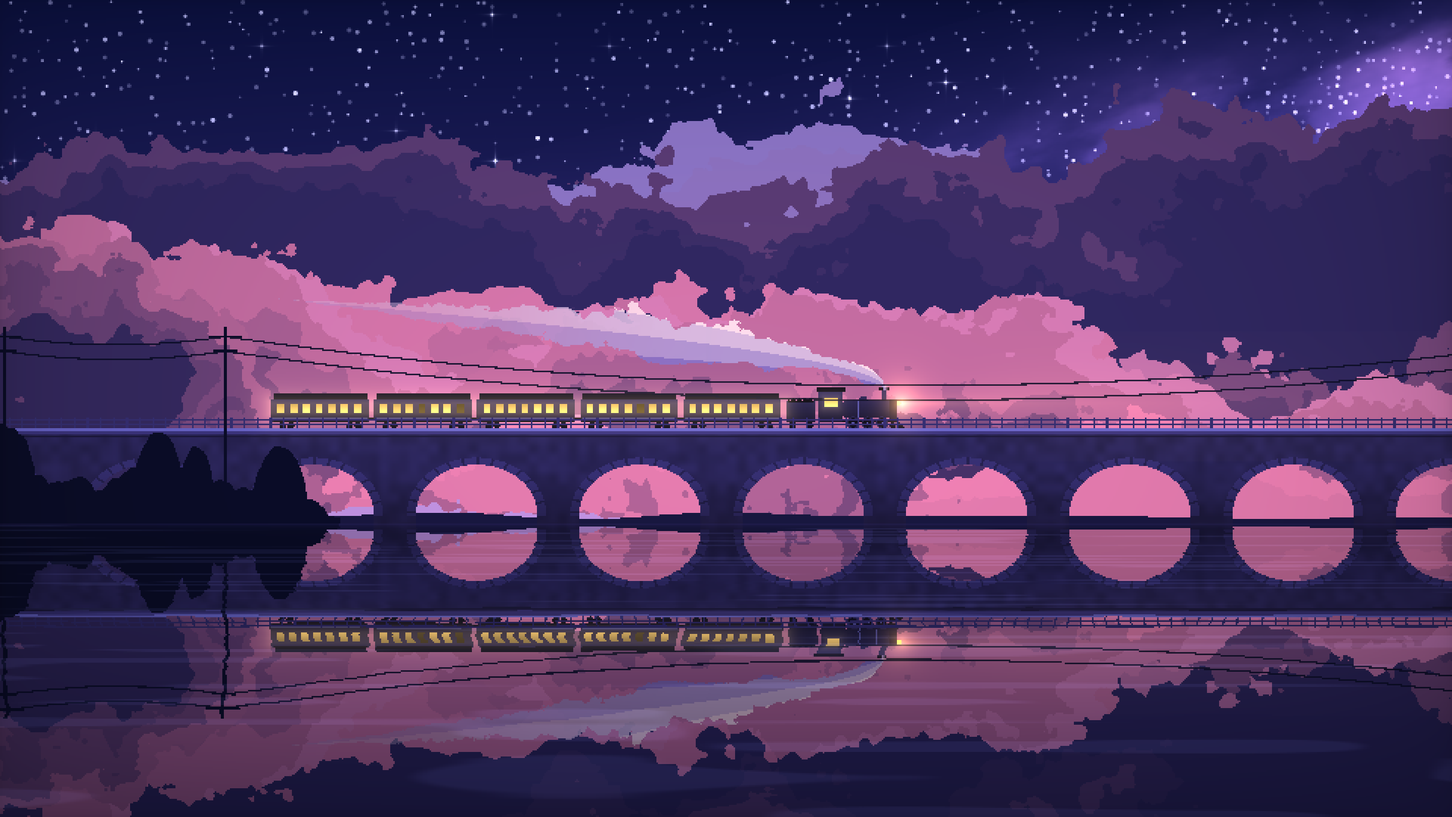
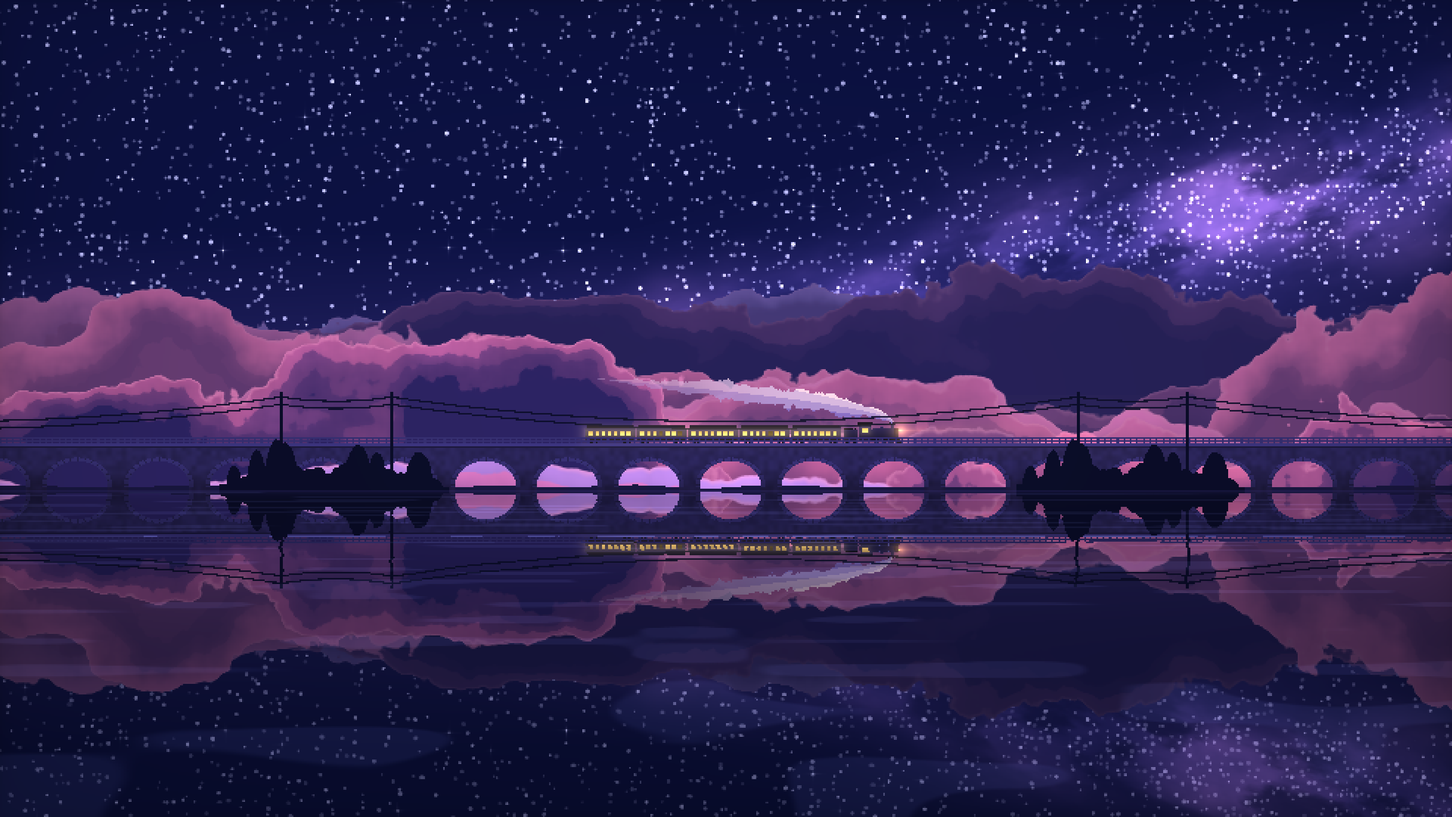
云增强：圆润鼓包、顶缘亮边与内部渐暗、远近层次、边缘抗锯齿；默认镜头改为成片构图（远近 0.5、高度 0.06），存储键升到 v2

diff --git a/index.html b/index.html
@@ -9,6 +9,7 @@
   该项目提取自 Rice-dog/code-codex「Cloud Train Background」插件（MIT）。
   云的生成算法（噪声、fbm、12 层深度高度场与色带合成）移植自原版 shader，作者 mdb，
   经 incarnation-gem/sunset-cloud-train 获得；该 shader 无再分发许可，本文件仅供本地学习使用，不公开发布、不商用。
+  云在原版算法之上另加了星河版增强（削弱高频、圆润鼓包、顶缘亮边、内部渐暗、远近层次、抗锯齿），见 docs/设计文档.md 4.2。
   其余部分（夜空、桥、列车、蒸汽、水面、近景、远岸）为重新编写；面板交互与渲染循环思路参考原版。
   沿用原作者声明：仅供学习与欣赏，不建议商业使用。
 -->
@@ -113,8 +114,8 @@
 // [键, 名称, 最小, 最大, 步长, 默认, 分组]
 const SLIDERS = [
   ['speed', '行进速度', 0, 1, .01, .12, '运动'],
-  ['zoom', '镜头远近', .5, 2, .01, 1, '镜头'],
-  ['camY', '镜头高度', -.3, .3, .01, 0, '镜头'],
+  ['zoom', '镜头远近', .5, 2, .01, .5, '镜头'],
+  ['camY', '镜头高度', -.3, .3, .01, .06, '镜头'],
   ['stars', '星星密度', 0, 1, .01, .55, '夜空'],
   ['twinkle', '闪烁强度', 0, 1, .01, .6, '夜空'],
   ['milky', '银河亮度', 0, 2, .01, 1, '夜空'],
@@ -122,6 +123,9 @@ const SLIDERS = [
   ['cloudCover', '云量', 0, 1.5, .01, .7, '云与蒸汽'],
   ['cloudStack', '云层高度', .1, 1, .01, .4, '云与蒸汽'],
   ['amplitude', '云层起伏', 0, 2, .01, .6, '云与蒸汽'],
+  ['cloudSoft', '云边圆润', 0, 1, .01, .7, '云与蒸汽'],
+  ['cloudVol', '云体积感', 0, 1, .01, .8, '云与蒸汽'],
+  ['cloudDepth', '远近层次', 0, 1, .01, .7, '云与蒸汽'],
   ['steam', '蒸汽浓度', 0, 1.5, .01, 1, '云与蒸汽'],
   ['cars', '车厢数量', 1, 10, 1, 5, '列车'],
   ['win', '车窗亮度', 0, 2, .01, 1, '列车'],
@@ -160,7 +164,9 @@ const DEFAULTS = {};
 for (const [k, , , , , d] of SLIDERS) DEFAULTS[k] = d;
 for (const [k, , d] of TOGGLES) DEFAULTS[k] = d;
 for (const [k, , d] of COLORS) DEFAULTS[k] = d;
-const STORE_KEY = 'starry-night-train:v1';
+// v2：默认镜头改为视频成片的构图并新增云参数；v1 旧存档不迁移，直接作废，让新默认生效
+const STORE_KEY = 'starry-night-train:v2';
+try { localStorage.removeItem('starry-night-train:v1'); } catch { /* 存储不可用时忽略 */ }
 
 function normalize(v) {
   const r = { ...DEFAULTS };
@@ -190,7 +196,7 @@ precision mediump float;
 uniform vec2 uRes;
 uniform float uT, uCamX, uFore, uTrainX, uSmokeOff, uFarOff, uWheel;
 uniform float uCL[12], uNMin, uNMax;
-uniform float uCars, uStars, uTwinkle, uMilky, uMeteor, uCover, uStack, uAmp, uSteam, uWin, uGlow;
+uniform float uCars, uStars, uTwinkle, uMilky, uMeteor, uCover, uStack, uAmp, uSoft, uVol, uDepth, uSteam, uWin, uGlow;
 uniform float uRipple, uRefl, uHorizon, uExposure, uSat, uVignette, uPoster, uZoom, uCamY;
 uniform int uOct;
 uniform vec3 cSkyTop, cSkyHor, cCloudLit, cCloudTop, cCloudShade, cWin, cTrain, cBridge, cLight, cFore;
@@ -297,13 +303,15 @@ float cnoise(vec2 x){
 // 原版 fbm：每阶权重 ×0.7、频率 ×2；每阶对 1024 取模（噪声周期），只防止坐标过大丢精度，不改变结果。
 // 提前退出不改变结果：噪声值必在纹理的 [uNMin, uNMax] 内，每阶后可得最终值的上下界；
 // 上界 < lo 说明这层盖不到当前像素（返回 -1），下界 > hi 说明一定落在最深色带（返回 2）。
+// 星河版改动：第 5 阶起每阶权重再乘 q = 1 − 0.4·云边圆润，削弱最高频的锯齿和碎块（q = 1 即原版）。
 float cfbm(vec2 x, float lo, float hi){
+  float q=1.-.4*uSoft;
   float T=0., w=1.;
-  for(int i=0;i<8;i++){ if(i>=uOct) break; T+=w; w*=.7; }
+  for(int i=0;i<8;i++){ if(i>=uOct) break; T+=w; w*=i>=3?.7*q:.7; }
   float a=0., b=1., t=0.;
   for(int i=0;i<8;i++){
     if(i>=uOct) break;
-    a+=b*cnoise(x); t+=b; b*=.7; x=mod(x*2.,1024.);
+    a+=b*cnoise(x); t+=b; b*=i>=3?.7*q:.7; x=mod(x*2.,1024.);
     if(i+1<uOct){
       float R=T-t;
       if((a+R*uNMax)/T<lo-1e-4) return -1.;
@@ -313,37 +321,59 @@ float cfbm(vec2 x, float lo, float hi){
   return a/t;
 }
 // 原版配色映射到星河版：按亮度在云暗部 → 云亮部之间取色，又亮又不饱和的（原版的奶油色）偏向云顶色
-// 夜色雾化：越远的层越向天空色靠拢（原版没有，用来让远层融进夜空）
-float gFog;
 vec3 cpal(vec3 o){
   float l=dot(o,vec3(.299,.587,.114));
   float s=max(o.r,max(o.g,o.b))-min(o.r,min(o.g,o.b));
   vec3 c=mix(cCloudShade*.7,cCloudLit,smoothstep(.3,.72,l));
   c=mix(c,cCloudTop,.7*smoothstep(.6,.92,l)*smoothstep(.5,.15,s));
-  c*=.78+.3*l;
-  return mix(c,mix(cSkyHor,cSkyTop,.5),gFog);
+  return c*(.78+.3*l);
 }
-// 一层云 = 一个二维 fbm 高度场；按 dh 从深到浅切出色带（与原版 layer 宏一致），命中即不透明返回。
+// 星河版在原版色带之上的光影（原版是平涂色带）：
+// d = 像素在本层轮廓下方的深度，k = 层的远近（0 最近，1 最远）。
+// 顶缘一圈粉色亮边，往内部逐渐压暗成深紫；远层压暗并融进夜空，近层提亮提饱和；外缘 1.5 像素抗锯齿。
+#define CLOUD_VOL .15
+void cmix(inout vec4 acc, vec3 c, float d, float k){
+  float aw=1.5/gPx;
+  float g=smoothstep(0.,CLOUD_VOL,d);
+  c=mix(c,mix(cCloudShade*.45,cSkyTop,.3),uVol*.6*g);
+  float rim=1.-smoothstep(aw*.5,.008+aw*1.5,d);
+  c=mix(c,mix(cCloudLit,vec3(1.,.93,.96),.35),uVol*.6*rim*(1.-.5*k));
+  float nb=uDepth*(1.-k);
+  c=mix(vec3(dot(c,vec3(.299,.587,.114))),c,1.+.35*nb)*(1.+.2*nb);
+  c=mix(c,mix(cSkyHor,cSkyTop,.5)*.85,mix(k*.33,.1+.6*k,uDepth));
+  float a=smoothstep(0.,aw,d);
+  acc.rgb+=(1.-acc.a)*a*c; acc.a+=(1.-acc.a)*a;
+}
+// billow 鼓包：|2n−1| 圆顶尖谷，叠在轮廓上形成积云的一团团圆顶（星河版新增，振幅 0.05·云边圆润，0 即原版轮廓）。
+// 鼓包值同时用于团块明暗：圆顶处略亮、团块之间的谷略暗，只作用在顶缘下 CLOUD_VOL 以内，深处提前退出时无接缝。
+// 只在 fbm 没有提前退出（靠近轮廓）时计算；鼓包恒 ≥ 0，所以「盖不到」的下界相应放宽 bA_，「必在最深处」的上界不变。
+float cbillow(vec2 x){
+  return .62*abs(2.*cnoise(x)-1.)+.38*abs(2.*cnoise(mod(x*2.13+vec2(31.,17.),1024.))-1.);
+}
+// 一层云 = 一个二维 fbm 高度场（与原版 layer 宏一致）；色带按 dh 从浅到深叠加，色带分界同样做 1.5 像素过渡。
+// 提前退出的「必在最深处」上界放宽到 max(dhMax, CLOUD_VOL) + 过渡宽度，保证光影渐变在范围内仍用真实深度。
 // 云量、云层高度只改 midlevel（整体平移 / 按层间距压缩），不改单层形状。
-#define CLD(mid,disp,i,dhMax) gFog=float(i)*.03; m_=.3+((mid)-.3)*uStack+(uCover-1.)*.3; D_=max((disp)*uAmp,1e-4); run_=cy<m_+(uNMax-.5)*D_; if(run_){ h_=(cfbm(vec2(p.x+uCL[i],cy),(cy-m_)/D_+.5,(cy+(dhMax)-m_)/D_+.5)-.5)*D_+m_; }
-#define BAND(dh,c) if(run_&&cy<h_-(dh)) return vec4(cpal(c),1.);
+#define CLD(mid,disp,i,dhMax) k_=float(i)/11.; m_=.3+((mid)-.3)*uStack+(uCover-1.)*.3; D_=max((disp)*uAmp,1e-4); d_=-1.; if(cy<m_+(uNMax-.5)*D_+bA_){ hb_=max((dhMax),CLOUD_VOL)+aw_; x_=vec2(p.x+uCL[i],cy); f_=cfbm(x_,(cy-bA_-m_)/D_+.5,(cy+hb_-m_)/D_+.5); d_=(f_-.5)*D_+m_-cy; bv_=.4; if(f_>=0.&&f_<=1.){ bv_=cbillow(mod(x_*vec2(9.,6.),1024.)); d_+=bA_*bv_; } }
+#define TOP(c) if(d_>0.){ c_=cpal(c);
+#define BAND(dh,c) c_=mix(c_,cpal(c),smoothstep((dh),(dh)+aw_,d_));
+#define END cmix(acc,c_*mix(1.,.82+.45*bv_,uVol*uSoft*(1.-smoothstep(.04,CLOUD_VOL,d_))),d_,k_); if(acc.a>.995) return vec4(acc.rgb/acc.a,1.); }
 vec4 clouds(vec2 p){
   // 云坐标：地平线对应原版 y=0.2，原版 c12（midlevel 0.3）落在地平线与桥面之间，和原版相对桥的位置一致
   float cy=p.y-uHorizon+.2;
-  float m_, D_, h_=0.; bool run_;
-  CLD(.3,.9,0,.14)   BAND(.14,vec3(.48,.19,.20)) BAND(.1,vec3(.68,.28,.19)) BAND(.07,vec3(.88,.38,.24)) BAND(0.,vec3(.95,.45,.30))
-  CLD(.35,1.,1,.04)  BAND(.04,vec3(.98,.76,.64)) BAND(0.,vec3(.95,.80,.77))
-  CLD(.35,3.5,2,.12) BAND(.12,vec3(.43,.32,.31)) BAND(.08,vec3(.55,.42,.41)) BAND(.04,vec3(.66,.42,.40)) BAND(0.,vec3(.77,.48,.46))
-  CLD(.45,2.,3,.04)  BAND(.04,vec3(.98,.57,.36)) BAND(0.,vec3(1.,.62,.44))
-  CLD(.5,2.3,4,.12)  BAND(.12,vec3(.41,.27,.27)) BAND(.08,vec3(.53,.35,.32)) BAND(.04,vec3(.80,.24,.17)) BAND(0.,vec3(.99,.29,.20))
-  CLD(.5,2.5,5,.1)   BAND(.1,vec3(.88,.38,.24))  BAND(.05,vec3(.98,.42,.28)) BAND(0.,vec3(1.,.48,.35))
-  CLD(.6,2.,6,.1)    BAND(.1,vec3(.95,.66,.48))  BAND(0.,vec3(1.,.76,.60))
-  CLD(.75,3.5,7,.2)  BAND(.2,vec3(1.,.55,.33))   BAND(.15,vec3(.98,.50,.24)) BAND(.1,vec3(.90,.55,.40)) BAND(0.,vec3(1.,.62,.44))
-  CLD(.7,2.7,8,.04)  BAND(.04,vec3(.73,.36,.30)) BAND(0.,vec3(.80,.40,.34))
-  CLD(.8,2.7,9,.1)   BAND(.1,vec3(.93,.58,.35))  BAND(0.,vec3(1.,.76,.60))
-  CLD(.9,3.,10,.1)   BAND(.1,vec3(.56,.25,.22))  BAND(.05,vec3(.60,.30,.27)) BAND(0.,vec3(.74,.35,.30))
-  CLD(1.,5.,11,.1)   BAND(.1,vec3(.92,.85,.82))  BAND(0.,vec3(1.,.94,.91))
-  return vec4(0.);
+  float m_, D_, d_, k_, hb_, f_, bv_, aw_=1.5/gPx, bA_=.07*uSoft; vec2 x_; vec3 c_; vec4 acc=vec4(0.);
+  CLD(.3,.9,0,.14)   TOP(vec3(.95,.45,.30)) BAND(.07,vec3(.88,.38,.24)) BAND(.1,vec3(.68,.28,.19)) BAND(.14,vec3(.48,.19,.20)) END
+  CLD(.35,1.,1,.04)  TOP(vec3(.95,.80,.77)) BAND(.04,vec3(.98,.76,.64)) END
+  CLD(.35,3.5,2,.12) TOP(vec3(.77,.48,.46)) BAND(.04,vec3(.66,.42,.40)) BAND(.08,vec3(.55,.42,.41)) BAND(.12,vec3(.43,.32,.31)) END
+  CLD(.45,2.,3,.04)  TOP(vec3(1.,.62,.44))  BAND(.04,vec3(.98,.57,.36)) END
+  CLD(.5,2.3,4,.12)  TOP(vec3(.99,.29,.20)) BAND(.04,vec3(.80,.24,.17)) BAND(.08,vec3(.53,.35,.32)) BAND(.12,vec3(.41,.27,.27)) END
+  CLD(.5,2.5,5,.1)   TOP(vec3(1.,.48,.35))  BAND(.05,vec3(.98,.42,.28)) BAND(.1,vec3(.88,.38,.24)) END
+  CLD(.6,2.,6,.1)    TOP(vec3(1.,.76,.60))  BAND(.1,vec3(.95,.66,.48)) END
+  CLD(.75,3.5,7,.2)  TOP(vec3(1.,.62,.44))  BAND(.1,vec3(.90,.55,.40)) BAND(.15,vec3(.98,.50,.24)) BAND(.2,vec3(1.,.55,.33)) END
+  CLD(.7,2.7,8,.04)  TOP(vec3(.80,.40,.34)) BAND(.04,vec3(.73,.36,.30)) END
+  CLD(.8,2.7,9,.1)   TOP(vec3(1.,.76,.60))  BAND(.1,vec3(.93,.58,.35)) END
+  CLD(.9,3.,10,.1)   TOP(vec3(.74,.35,.30)) BAND(.05,vec3(.60,.30,.27)) BAND(.1,vec3(.56,.25,.22)) END
+  CLD(1.,5.,11,.1)   TOP(vec3(1.,.94,.91))  BAND(.1,vec3(.92,.85,.82)) END
+  return acc.a>0.?vec4(acc.rgb/acc.a,acc.a):vec4(0.);
 }
 
 // ---------- 远岸与灯光 ----------
@@ -737,7 +767,7 @@ function createGL() {
     gl.activeTexture(gl.TEXTURE0);
     uniformNames = ['uRes', 'uT', 'uCamX', 'uFore', 'uTrainX', 'uSmokeOff', 'uFarOff', 'uWheel', 'uCL', 'uCars', 'uStars',
       'uTwinkle', 'uMilky', 'uMeteor', 'uCover', 'uStack', 'uAmp', 'uSteam', 'uWin', 'uGlow', 'uRipple', 'uRefl', 'uHorizon',
-      'uExposure', 'uSat', 'uVignette', 'uPoster', 'uZoom', 'uCamY', 'uOct', 'uNoise', 'uCloudTex', 'uNMin', 'uNMax',
+      'uExposure', 'uSat', 'uVignette', 'uPoster', 'uZoom', 'uCamY', 'uOct', 'uNoise', 'uCloudTex', 'uNMin', 'uNMax', 'uSoft', 'uVol', 'uDepth',
       ...COLORS.map(c => c[3])];
     loc = Object.fromEntries(uniformNames.map(n => [n, gl.getUniformLocation(prog, n)]));
     gl.uniform1i(loc.uNoise, 0); gl.uniform1i(loc.uCloudTex, 1);
@@ -755,6 +785,7 @@ function createGL() {
       gl.uniform1fv(loc.uCL, M.cl);
       f1('uCars', S.cars); f1('uStars', S.stars); f1('uTwinkle', S.twinkle); f1('uMilky', S.milky);
       f1('uMeteor', S.meteor); f1('uCover', S.cloudCover); f1('uStack', S.cloudStack); f1('uAmp', S.amplitude); f1('uSteam', S.steam);
+      f1('uSoft', S.cloudSoft); f1('uVol', S.cloudVol); f1('uDepth', S.cloudDepth);
       f1('uWin', S.win); f1('uGlow', S.glow); f1('uRipple', S.ripple); f1('uRefl', S.refl);
       f1('uHorizon', S.horizon); f1('uExposure', S.exposure); f1('uSat', S.saturation);
       f1('uVignette', S.vignette); f1('uPoster', S.poster); f1('uZoom', S.zoom); f1('uCamY', S.camY);

diff --git a/docs/设计文档.md b/docs/设计文档.md
@@ -16,9 +16,9 @@ starry-night-train/
 └── docs/
     ├── 需求分析.md
     ├── 设计文档.md
-    ├── screenshot.png               验证截图（默认镜头）
-    ├── screenshot-zoom.png          验证截图（镜头远近 0.5）
-    └── cloud-compare.png            云形状对比（上原版、下星河版）
+    ├── screenshot.png               验证截图（默认镜头：远近 0.5、高度 0.06）
+    ├── screenshot-zoom.png          验证截图（镜头远近 0.5，云增强之前）
+    └── cloud-compare.png            云增强对比（上为增强前的原版移植云，下为增强后，同一构图）
 ```
 
 ## 2. 总体架构
@@ -59,7 +59,7 @@ starry-night-train/
 | 4 | 列车 | `uTrainX`（屏幕位置） |
 | 5 | 石拱桥 | `uCamX` |
 | 6 | 远岸与灯光 | `uFarOff`（视差 0.08） |
-| 7 | 12 层云（由近到远，命中即不透明返回） | `uCL[i]`（镜头速度 × 5 / dist，外加微风） |
+| 7 | 12 层云（由近到远，带抗锯齿边缘的前到后合成，累计不透明即返回） | `uCL[i]`（镜头速度 × 5 / dist，外加微风） |
 | 8 | 天空：渐变、银河、星星、流星 | 静止 |
 
 车窗光晕、车头灯和光束最后叠加。
@@ -75,17 +75,21 @@ starry-night-train/
 
 ### 4.2 云
 
-云忠实移植自原版 `background()` 里的 c12～c1 共 12 层（来源与许可见第 2 节）。对比截图（上为原版，下为星河版，同为 t = 0、镜头远近 1、云层起伏 0.6、噪声细节 8；星河版的云量和云层高度设为 1，镜头高度设为 0.16，使云坐标与原版 uv 完全重合）：
+云的底层移植自原版 `background()` 里的 c12～c1 共 12 层（来源与许可见第 2 节），噪声、fbm、分层高度场和色带都与原版一致。在此之上，星河版又做了一轮增强，让云更接近「治愈星空列车」海报里蓬松、圆润、分层清楚的积云（见本节末「星河版增强」）。
 
-![云形状对比](cloud-compare.png)
+移植时曾逐像素对比过：同为 t = 0、镜头远近 1、云层起伏 0.6、噪声细节 8，云量和云层高度设为 1、镜头高度 0.16 时，星河版与原版的云形状完全重合。
+
+增强前后的对比（同为默认构图：镜头远近 0.5、高度 0.06，t = 0，暂停；上为增强前，下为增强后）：
+
+![云增强对比](cloud-compare.png)
 
 **噪声**（与原版一致）：
 - 纹理：1024×1024，xorshift（种子 93451）逐字节生成，线性过滤、重复寻址。
 - `noise(x)`：五次插值 `u = f³(f(6f − 15) + 10)`，取 4 个整数格点 `(p + {0,1}²)/1024` 的纹理值做双线性组合。格点坐标正好落在 texel 边界上，线性过滤得到的是相邻 2×2 texel 的平均值。
 - 实现上做了等价变换：初始化时预先算出每个格点的 2×2 平均值存进纹理（四个字节之和为 0～1020，亮度通道存和 >> 2，alpha 通道存低 2 位 × 64，着色器里用 `亮度 + alpha / 256` 还原出精确平均值），再用一次硬件双线性采样 `(floor(x) + u + 0.5)/1024` 代替原版的 4 次取值加手工插值，结果相同。
-- `fbm(x)`：`噪声细节` 阶，每阶权重 × 0.7、频率 × 2，除以权重和归一化。每阶坐标对 1024 取模（噪声周期），只为防止坐标过大丢精度，不改变结果。
+- `fbm(x)`：`噪声细节` 阶，每阶权重 × 0.7、频率 × 2，除以权重和归一化。每阶坐标对 1024 取模（噪声周期），只为防止坐标过大丢精度，不改变结果。第 5 阶起的权重另有星河版衰减（见「星河版增强」）。
 
-**分层高度场**（与原版一致）：每层 `h = (fbm(x + 偏移_i, y) − 0.5) × disp_i × 云层起伏 + midlevel_i`。fbm 的输入包含 y，所以轮廓是二维噪声的等值线，会出现原版那种碎裂的边缘、悬空的小云块和孔洞。每层再按 `dh` 从深到浅切出 2～4 道色带：`y < h − dh` 就取该色带颜色并不透明返回，与原版 `layer(dh, v)` 宏相同。各层 midlevel、disp、dist、初始偏移和色带 dh 全部照搬原版：
+**分层高度场**（与原版一致）：每层 `h = (fbm(x + 偏移_i, y) − 0.5) × disp_i × 云层起伏 + midlevel_i`。fbm 的输入包含 y，所以轮廓是二维噪声的等值线，原版因此有碎裂的边缘、悬空的小云块和孔洞。每层再按 `dh` 切出 2～4 道色带：`y < h − dh` 就取该色带颜色，与原版 `layer(dh, v)` 宏相同。原版的色带是硬切、命中即不透明返回；星河版在色带分界和外缘各做 1.5 像素过渡（见「星河版增强」）。各层 midlevel、disp、dist、初始偏移和色带 dh 全部照搬原版：
 
 | 层（原版编号） | midlevel | disp | dist | 初始偏移 | 色带 dh |
 | --- | --- | --- | --- | --- | --- |
@@ -106,13 +110,27 @@ starry-night-train/
 - 云坐标 `y_c = p.y − H + 0.2`，即地平线对应原版的 y = 0.2，c12 落在地平线和桥面之间，相对桥的位置和原版一致。x 直接用场景坐标，因此镜头远近、镜头高度、水面反射都自动正确。
 - 滚动：原版各层为 `t / dist`、桥为 `t / 5`，所以星河版每层偏移按「镜头位移 × 5 / dist」推进，外加一点微风，每层单独对 1024 取模（见第 5 节）。
 - 云量与云层高度只改各层 midlevel，不改单层形状：`midlevel' = 0.3 + (midlevel − 0.3) × 云层高度 + (云量 − 1) × 0.3`。两者都为 1 时与原版相同；默认 0.7 / 0.4，把云压到画面中下部，上方留出星空。
-- 合成顺序：近景、护栏、蒸汽、列车、桥、远岸之后，按 c12 → c1 由近到远判断，命中即返回，最后才是天空。
+- 合成顺序：近景、护栏、蒸汽、列车、桥、远岸之后，按 c12 → c1 由近到远前到后累加，累计不透明度超过 0.995 就返回，最后才是天空。
 
-**配色**：原版每道色带的晚霞色按亮暗关系映射到星河版的三种云颜色。亮度 `l` 从 0.3 到 0.72，在「云暗部 × 0.7」和「云亮部」之间过渡；又亮又不饱和的颜色（原版的奶油色）再最多向「云顶」混合 70%；整体乘 `0.78 + 0.3 l`。原版里深层的暗色带、云顶的亮边，以及各层之间的明暗关系都因此保留下来。另外按层序加了最多 33% 的「夜色雾化」，越远的层越向天空色靠拢，这一步原版没有，用来让远层融进夜空。
+**配色**：原版每道色带的晚霞色按亮暗关系映射到星河版的三种云颜色。亮度 `l` 从 0.3 到 0.72，在「云暗部 × 0.7」和「云亮部」之间过渡；又亮又不饱和的颜色（原版的奶油色）再最多向「云顶」混合 70%；整体乘 `0.78 + 0.3 l`。原版里深层的暗色带、云顶的亮边，以及各层之间的明暗关系都因此保留下来。映射之后再叠加星河版的光影和远近处理（见下）。
 
 **提前退出**（不改变结果）：
-- 纹理里的噪声值有确定的最小值和最大值，初始化时算出来作为 `uNMin` / `uNMax`。像素高于 `midlevel' + (uNMax − 0.5) × disp'` 时，这层一定盖不到，直接跳过。
-- fbm 每算完一阶，就用剩余权重乘噪声上下限，得到最终值的范围。如果已经能确定这层盖不到当前像素，或者一定落在最深的色带里，就提前结束。
+- 纹理里的噪声值有确定的最小值和最大值，初始化时算出来作为 `uNMin` / `uNMax`。像素高于 `midlevel' + (uNMax − 0.5) × disp' + 鼓包振幅` 时，这层一定盖不到，直接跳过。
+- fbm 每算完一阶，就用剩余权重乘噪声上下限，得到最终值的范围。如果已经能确定这层盖不到当前像素（下界放宽一个鼓包振幅），或者一定在轮廓下方 `max(最深 dh, 0.15) + 过渡宽度` 以外，就提前结束。这个深度以下光影已经不再变化，所以结果不变。
+
+**星河版增强**：原版的每道色带是平涂，8 阶、0.7 衰减的 fbm 轮廓高频很重。照搬到夜景后，远层成了大块没有明暗的薰衣草色平板，边缘一圈锯齿和孤立像素。增强只在原版高度场之上叠加，不改 12 层结构、各层参数和噪声。下表最后一列的参数为 0 时，对应改动关闭：
+
+| 改动 | 做法 | 理由 | 参数 |
+| --- | --- | --- | --- |
+| 削弱高频 | fbm 第 5 阶起，每阶权重在 × 0.7 之外再乘 `q = 1 − 0.4 × 云边圆润`；归一化用改后的权重和 | 锯齿和孤立像素主要来自 5～8 阶；前 4 阶决定大形，保持原样 | 云边圆润，默认 0.7 时 q = 0.72 |
+| 圆润鼓包 | 轮廓上加 `0.07 × 云边圆润 × billow(x × (9, 6))`，`billow = 0.62 abs(2n−1) + 0.38 abs(2n'−1)`（同一 1024 噪声，第二项频率 × 2.13 并错开） | `abs(2n−1)` 是圆顶尖谷，叠在轮廓上就是积云一团团的圆顶；只在 fbm 没有提前退出、也就是轮廓附近的像素才计算，开销小 | 云边圆润 |
+| 团块明暗 | 顶缘下 0.15 以内，颜色乘 `mix(1, 0.82 + 0.45 × billow, 云体积感 × 云边圆润)` | 圆顶处略亮、团块之间的谷略暗，每一团都有体积；超出这一深度后不再作用，所以和提前退出的深度一致，不会出现接缝 | 云体积感 × 云边圆润 |
+| 顶缘亮边 | 轮廓下 `0.008 + 1.5 像素` 以内，向「云亮部」与白色 35% 的混合色过渡，强度 `0.6 × 云体积感`，远层减半 | 海报里每团云顶都有一圈粉色受光边 | 云体积感 |
+| 内部渐暗 | 按轮廓下深度 d，`smoothstep(0, 0.15, d)` 向「云暗部 × 0.45」与天顶色 30% 的混合色过渡，最多 `0.6 × 云体积感` | 顶亮底暗。近层的亮顶压在远层的暗部上，层与层的前后关系一眼可见，大块平涂也就没有了 | 云体积感 |
+| 远近层次 | 层序 k = i / 11（0 最近）。近层饱和度 × `1 + 0.35 (1−k) 远近层次`、亮度 × `1 + 0.2 (1−k) 远近层次`；之后向夜色（天空中间色 × 0.85）混合 `mix(0.33k, 0.1 + 0.6k, 远近层次)` | 远层更暗并融进夜空，近层更亮更饱和。远近层次为 0 时退化为增强前的雾化（0.33k） | 远近层次，默认 0.7 |
+| 抗锯齿 | 外缘不透明度为 `smoothstep(0, 1.5 / gPx, d)`；色带分界用 `smoothstep(dh, dh + 1.5 / gPx, d)` 混合；12 层改为前到后累加（与 `scene()` 的 ADD 相同） | 1.5 个渲染像素的过渡。像素风下放大后仍是像素块，只是边缘不再一格一格地断开 | 始终开启 |
+
+这些改动用的是竖直方向的深度 d，不是真正的法向距离，所以接近竖直的轮廓上过渡偏窄。削弱高频之后这种陡边少了很多；要改用屏幕导数，得启用 `OES_standard_derivatives`，而且提前退出带来的分支会让导数不可靠，所以没有采用。
 
 **未移植的部分**：
 - 原版 `foreground()` 的 c14、c13 两层前景云：它们在桥下形成云海，会盖住星河版的水面和倒影。
@@ -180,7 +198,8 @@ JS 每帧按 `dt × 行进速度` 推进，所有偏移按周期取模：
 | --- | --- |
 | 单 pass、无 FBO | 省掉原版的反馈纹理读写 |
 | 单次采样值噪声 | 每个 noise 1 次纹理读取；云噪声用预平均纹理把原版的 4 次取值等价成 1 次 |
-| 云层提前退出 | 按噪声上下限推 fbm 取值范围，确定不命中或必落最深色带时提前结束，结果不变 |
+| 云层提前退出 | 按噪声上下限推 fbm 取值范围，确定不命中或必在光影不再变化的深度以下时提前结束，结果不变 |
+| 云增强的开销控制 | 鼓包只在轮廓附近（fbm 未提前退出）计算；削弱高频后剩余权重变小，上下界更紧，提前退出更早；抗锯齿只让边缘像素继续算后一层。SwiftShader 下稳态从约 21 fps 升到约 27～30 fps |
 | 前到后合成并提前返回 | 被桥、列车、近景、厚云挡住的部分不算天空和远层云 |
 | 包围盒剔除 | 云、列车、蒸汽、桥、银河先做范围判断 |
 | 渲染比例默认 0.5 + 像素风 | 默认像素数是全分辨率的 1/4，最近邻放大本身就是像素画风格 |
@@ -193,13 +212,13 @@ JS 每帧按 `dt × 行进速度` 推进，所有偏移按周期取模：
 
 ## 7. 参数表
 
-滑杆参数（默认值对应参考图）：
+滑杆参数（默认值对应参考图；镜头默认值取视频成片的最终构图，见下）：
 
 | 键 | 名称 | 范围 | 默认 |
 | --- | --- | --- | --- |
 | speed | 行进速度 | 0～1 | 0.12 |
-| zoom | 镜头远近（大于 1 拉近，小于 1 拉远） | 0.5～2 | 1 |
-| camY | 镜头高度（正值抬高镜头、看到更多天空） | −0.3～0.3 | 0 |
+| zoom | 镜头远近（大于 1 拉近，小于 1 拉远） | 0.5～2 | 0.5 |
+| camY | 镜头高度（正值抬高镜头、看到更多天空） | −0.3～0.3 | 0.06 |
 | stars | 星星密度 | 0～1 | 0.55 |
 | twinkle | 闪烁强度 | 0～1 | 0.6 |
 | milky | 银河亮度 | 0～2 | 1 |
@@ -207,6 +226,9 @@ JS 每帧按 `dt × 行进速度` 推进，所有偏移按周期取模：
 | cloudCover | 云量（整体升降各层 midlevel，1 = 原版） | 0～1.5 | 0.7 |
 | cloudStack | 云层高度（按层间距压缩各层 midlevel，1 = 原版） | 0.1～1 | 0.4 |
 | amplitude | 云层起伏（乘各层 disp，同原版 amplitude） | 0～2 | 0.6 |
+| cloudSoft | 云边圆润（削弱 fbm 高频 + 圆润鼓包，0 = 原版轮廓） | 0～1 | 0.7 |
+| cloudVol | 云体积感（顶缘亮边、内部渐暗、团块明暗） | 0～1 | 0.8 |
+| cloudDepth | 远近层次（远层压暗融入夜空，近层提亮提饱和） | 0～1 | 0.7 |
 | steam | 蒸汽浓度 | 0～1.5 | 1 |
 | cars | 车厢数量 | 1～10 | 5 |
 | win | 车窗亮度 | 0～2 | 1 |
@@ -224,6 +246,14 @@ JS 每帧按 `dt × 行进速度` 推进，所有偏移按周期取模：
 
 开关：镜头跟随（开）、像素风（开）、自动降画质（开）、暂停（关）。
 
+默认值与视频的关系：`tools/record-video.mjs` 录制时设置了 `scale 1`、`auto false`、`fps 60`、`paused false`、`follow true`，镜头在 14 秒内从 `zoom 1、camY 0` 过渡到 `zoom 0.5、camY 0.06`（第 11 节命令里的 `--camy-to 0.06`），之后一直保持。成片最终状态中，这些画面参数的去留如下：
+
+- 照搬为默认值：`zoom 0.5`、`camY 0.06`。
+- 本来就与默认值相同：`fps 60`、`paused false`、`follow true`。
+- 不照搬：`scale 1` 和 `auto false`。它们只是为了保证录制画质（固定 1920×1080、不让自动降画质改分辨率），实时播放时仍用 0.5 和自动降画质，照顾集显。
+
+`compose-video.mjs` 只做后期（泛光、暗角、颗粒、文字、淡入淡出），不涉及页面参数。
+
 颜色（10 项）：天顶 `#0d1240`、地平线 `#4a3c8c`、云亮部 `#ff8fbd`、云顶 `#8f97f0`、云暗部 `#4b3f8f`、车窗 `#ffd27a`、车身 `#1d1a3a`、桥体 `#2a2554`、远处灯光 `#ffb35c`、近景剪影 `#0b0d26`。
 
 ## 8. 面板交互
@@ -231,7 +261,8 @@ JS 每帧按 `dt × 行进速度` 推进，所有偏移按周期取模：
 - 右下角面板，点标题栏折叠/展开；按 `H` 键整体隐藏或显示。
 - 标题栏显示实时帧率和渲染分辨率。
 - 每项滑杆旁有「重置」；颜色用原生 `<input type="color">`（离线可用，比原版自绘取色器简单）。
-- 底部按钮：恢复默认、记住设置（localStorage，键 `starry-night-train:v1`）、清除记录。
+- 底部按钮：恢复默认、记住设置（localStorage，键 `starry-night-train:v2`）、清除记录。
+- 存储版本：默认镜头改为成片构图并新增三个云参数后，键从 `v1` 升到 `v2`。旧的 `v1` 存档不迁移，启动时直接删除。原因是旧存档里几乎都带着旧的 `zoom 1、camY 0`；若迁移，新默认构图对老用户永远不会生效，而这次改默认的目的正是让所有人看到新构图。旧存档里能保留的只有少量手调参数，重新调一次的代价很小。
 - 旧存储兼容：读取时只认当前参数表里的键并夹取范围。旧版的 `cloud` / `cloudH` 语义已变，改用新键名 `cloudCover` / `cloudStack` / `amplitude`，所以旧值会被忽略，这几项取新默认值；旧存储里的 `detail` 仍有效。
 - 自动降画质改动渲染比例或噪声细节时同步更新滑杆。
 
@@ -262,6 +293,11 @@ JS 每帧按 `dt × 行进速度` 推进，所有偏移按周期取模：
 | 禁用 WebGL，`file://` 打开 | 显示降级提示，仅一条预期的 warning；Canvas2D 简化版 60 fps 持续行驶 |
 | 镜头参数（RTX 3080） | 镜头远近 0.5 / 1 / 2、镜头高度 ±0.3 逐一截图，GL 无错误，倒影对齐、边缘无空白；远近 0.5 加高度 −0.3 并关闭镜头跟随时，列车在 −0.906 处重新进场（可见左边界 −0.889） |
 | 镜头参数（禁用 WebGL） | 远近 0.5 加高度 0.2、远近 2 加高度 −0.2，Canvas2D 画面铺满、60 fps |
+| 云增强（RTX 3080） | 默认构图（远近 0.5、高度 0.06）以及远近 1、2 逐一截图，GL 无错误，倒影与实体对齐。无头 Edge（ANGLE D3D11，1280×720 窗口）默认设置稳定 60 fps，比例 0.5、细节 8 不降级 |
+| 云增强（SwiftShader，默认构图） | 控制台无日志；比例 0.5 时约 9 fps（增强前约 5 fps），自动降到 0.35 约 13～17 fps，细节降到 5 阶后比例再降到 0.25，稳定在约 30 fps（20 秒内收敛） |
+| 云增强（SwiftShader，远近 1、高度 0） | 与上面相同的降级路径，稳定在约 27 fps（增强前同条件约 21 fps） |
+| 云增强（禁用 WebGL） | 显示降级提示；Canvas2D 简化版按新默认构图（远近 0.5、高度 0.06）铺满画面，60 fps |
+| 存储版本 | 新键 `starry-night-train:v2`；旧键 `v1` 启动时被删除，默认即读到远近 0.5、高度 0.06 |
 
 镜头远近 0.5 的画面：
 
@@ -306,7 +342,7 @@ node tools/compose-video.mjs --video export/raw.mp4 --audio <音乐.mp3> --out e
 
 ### 11.3 验证结果
 
-先用 12 秒样片抽帧检查标题位置、泛光、阴影和颗粒（第一版标题在画面 30% 高度处压在云顶上，改到 13% 处的星空里），再渲染全片。全片用提交 `e73125b`（移植原版云）的 `index.html` 渲染。
+先用 12 秒样片抽帧检查标题位置、泛光、阴影和颗粒（第一版标题在画面 30% 高度处压在云顶上，改到 13% 处的星空里），再渲染全片。全片用提交 `e73125b`（移植原版云）的 `index.html` 渲染，不含第 4.2 节的云增强；要换成增强后的云，重新运行本节开头的两条命令即可。录制脚本显式设置镜头时间线，与页面默认镜头无关，所以默认值改成 0.5 / 0.06 不影响录制结果。
 
 | 项 | 结果 |
 | --- | --- |

diff --git a/docs/需求分析.md b/docs/需求分析.md
@@ -39,7 +39,8 @@
 | F1 | 星空 | 天顶深蓝到地平线紫的渐变；大量小星星随机闪烁；少量带十字光芒的亮星 |
 | F2 | 银河 / 星云 | 斜向的淡紫蓝光带，带噪声纹理和暗尘带，亮度可调 |
 | F3 | 流星 | 偶发流星从右上划向左下，带渐隐拖尾，频率可调，可设为 0 关闭 |
-| F4 | 云团 | 云的形状、层次和边缘蓬松感与原版 sunset-cloud-train 一致：忠实移植原版的噪声、fbm 和 12 层深度高度场与色带合成，只把晚霞配色换成星河版的云颜色（云亮部、云顶、云暗部）；多层视差随列车前行；云量、云层高度、云层起伏可调 |
+| F4 | 云团 | 底层算法与原版 sunset-cloud-train 一致：移植原版的噪声、fbm 和 12 层深度高度场与色带合成，晚霞配色换成星河版的云颜色（云亮部、云顶、云暗部）；多层视差随列车前行；云量、云层高度、云层起伏可调 |
+| F4a | 云团增强 | 在原版算法之上向「治愈星空列车」海报靠拢，具体如下：<br>- 层次：前后层叠关系清楚；每团云顶缘有粉色亮边、底部和内部渐暗成深紫；远层更暗并融进夜色，近层更亮更饱和；不出现大块平涂的单色云。<br>- 边缘：圆润的鼓包轮廓，减少高频锯齿和孤立像素，边缘约 1～2 像素抗锯齿；像素风下保持像素块，但边缘不碎。<br>- 可调：云边圆润、云体积感、远近层次三项，设为 0 时对应改动关闭。<br>- 性能：SwiftShader 下的稳态帧率不低于增强前（约 21 fps） |
 | F5 | 远岸与灯光 | 地平线上低矮的远岸剪影，成簇的暖色灯点和光晕 |
 | F6 | 石拱桥 | 多孔半圆拱，拱圈石块、桥面檐口亮边、护栏立柱；随行驶横向滚动 |
 | F7 | 列车 | 蒸汽机车（烟囱、汽包、驾驶室、煤水车、排障器、大动轮和连杆、车头灯光束），后挂若干客车厢，暖黄车窗加光晕；车厢数可调 |
@@ -56,6 +57,7 @@
 | M3 | 所有滚动量按周期取模，长时间运行不出现浮点精度问题和接缝跳变 |
 | M4 | 支持暂停；系统开启「减少动态效果」时默认放慢 |
 | M5 | 镜头远近与镜头高度（对应原版的「视角缩放」「垂直位置」）：以屏幕中心缩放、整体上下平移；所有图层统一变换，倒影与实体对齐，缩小时画面边缘也有内容，列车跟随与穿行按可见范围计算 |
+| M6 | 默认镜头取视频成片的最终构图：镜头远近 0.5、镜头高度 0.06。只为保证录制画质的设置（渲染比例 1、关闭自动降画质）不作为默认值。存储键升级为 `v2`，让新默认值对所有用户生效 |
 
 ### 3.3 参数面板
 
@@ -66,7 +68,7 @@
 | 运动 | 行进速度、镜头跟随、暂停 |
 | 镜头 | 镜头远近、镜头高度 |
 | 夜空 | 星星密度、闪烁强度、银河亮度、流星频率 |
-| 云与蒸汽 | 云量、云层高度、云层起伏（同原版 amplitude）、蒸汽浓度 |
+| 云与蒸汽 | 云量、云层高度、云层起伏（同原版 amplitude）、云边圆润、云体积感、远近层次、蒸汽浓度 |
 | 列车 | 车厢数量、车窗亮度、光晕强度 |
 | 水面 | 地平线高度、倒影亮度、波纹强度 |
 | 后期 | 曝光、饱和度、暗角、色阶（像素化分色） |
@@ -116,7 +118,7 @@
 | --- | --- |
 | V1 | 画面用 `index.html` 本身渲染（新版云），不做实时屏幕录制；逐帧确定性渲染，不掉帧、不卡顿 |
 | V2 | 1920×1080、30 fps，全分辨率渲染（渲染比例 1，关闭自动降画质），隐藏面板、标题和帧率显示 |
-| V3 | 镜头：开场约 14 秒内从默认远近 1 平滑拉到最远 0.5，之后保持；镜头高度可按构图微调；全程镜头跟随，列车持续前行 |
+| V3 | 镜头：开场约 14 秒内从远近 1 平滑拉到最远 0.5，之后保持；镜头高度可按构图微调；全程镜头跟随，列车持续前行（成片的最终构图后来成为页面默认镜头，见 M6） |
 | V4 | 时长与音乐一致 |
 | V5 | 合成效果：开头黑场淡入、结尾淡出；克制的柔光泛光、轻微暗角、细微胶片颗粒；开场叠加淡入淡出的标题「星河夜行列车」和副标题「Letter from the Clouds」，字体细、留白、白色半透明带柔和阴影；结尾淡入一行小字 |
 | V6 | 音频淡入 2 秒、淡出 5 秒，AAC 320 kbps |
